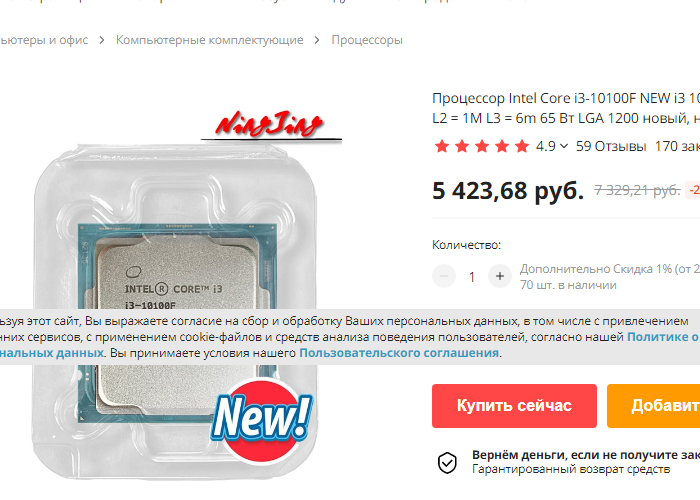
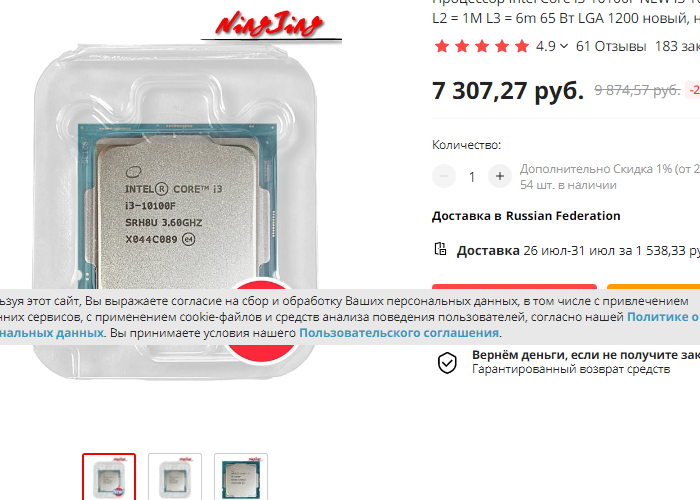
router adaptation

diff --git a/router.js b/router.js
@@ -1,0 +1,76 @@
+const express = require("express");
+let router = express.Router();
+require('dotenv').config()
+const path = require('path');
+const puppeteer = require('puppeteer');
+
+let subdomain = "10100";
+// //=================================SERV
+router.get('*', function (req, res, next) {
+  if (req.subdomains[0] === subdomain) {
+    next();
+  }
+});
+
+router.get('/', function (req, res) {
+  res.set('Cache-Control', 'no-store')
+  res.sendFile(path.join(__dirname, 'index.html'));
+});
+
+router.get('/index.css', function (req, res) {
+  res.set('Cache-Control', 'no-store')
+  res.sendFile(path.join(__dirname, 'index.css'));
+});
+
+router.get('/main.js', function (req, res) {
+  res.set('Cache-Control', 'no-store')
+  res.sendFile(path.join(__dirname, 'main.js'));
+});
+
+router.get('/example.png', function (req, res) {
+  res.set('Cache-Control', 'no-store')
+  res.sendFile(path.join(__dirname, 'example.png'));
+});
+
+//==============================BOT
+const { Telegraf } = require('telegraf');
+bot = new Telegraf(process.env.TOKEN)
+bot.launch()
+
+
+//======================UPDATE
+function update() {
+  try {
+    (async () => {
+      const browser = await puppeteer.launch({args: ['--no-sandbox']})//({ executablePath: 'C:\\Program Files\\Google\\Chrome\\Application\\chrome.exe' });
+      const page = await browser.newPage();
+      await page.goto('https://aliexpress.ru/item/1005002907849570.html?spm=a2g2w.productlist.i3.2.7f6125a4zfKXg2&sku_id=12000022722268689');
+      //await page.goto('https://yandex.com');
+      await page.screenshot({ path: path.join(__dirname, 'example.png'), clip: { 
+        x: 50, 
+        y: 250, 
+        width: 700, 
+        height: 500 
+      } });
+      await browser.close();
+    })();
+  } catch (e) {
+    console.log('intel update error', e);
+  }
+
+  try {
+    bot.telegram.sendMediaGroup('@shteudposting', [
+      {
+        media: { source: path.join(__dirname, 'example.png') },
+        type: 'photo'
+      }
+    ]);
+  } catch (e) {
+    console.log("telegram posting error", e);
+  }
+}
+
+update();
+setInterval(update, 600000);
+
+module.exports = router;

diff --git a/index.js b/index.js
@@ -1,0 +1,11 @@
+import express from "express"
+import router from "./router.js"
+import http from "http"
+import https from  "https"
+
+let app = express()
+
+app.use(router)
+ 
+http.createServer(app).listen(porthttp);
+https.createServer({}, app).listen(porthttps);
